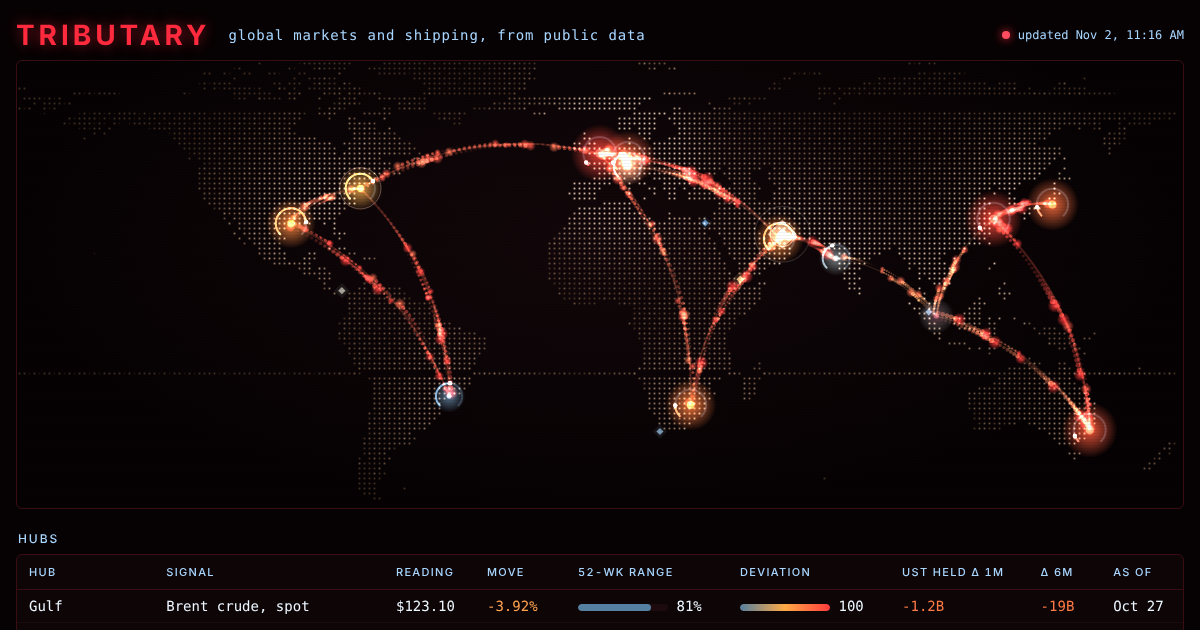
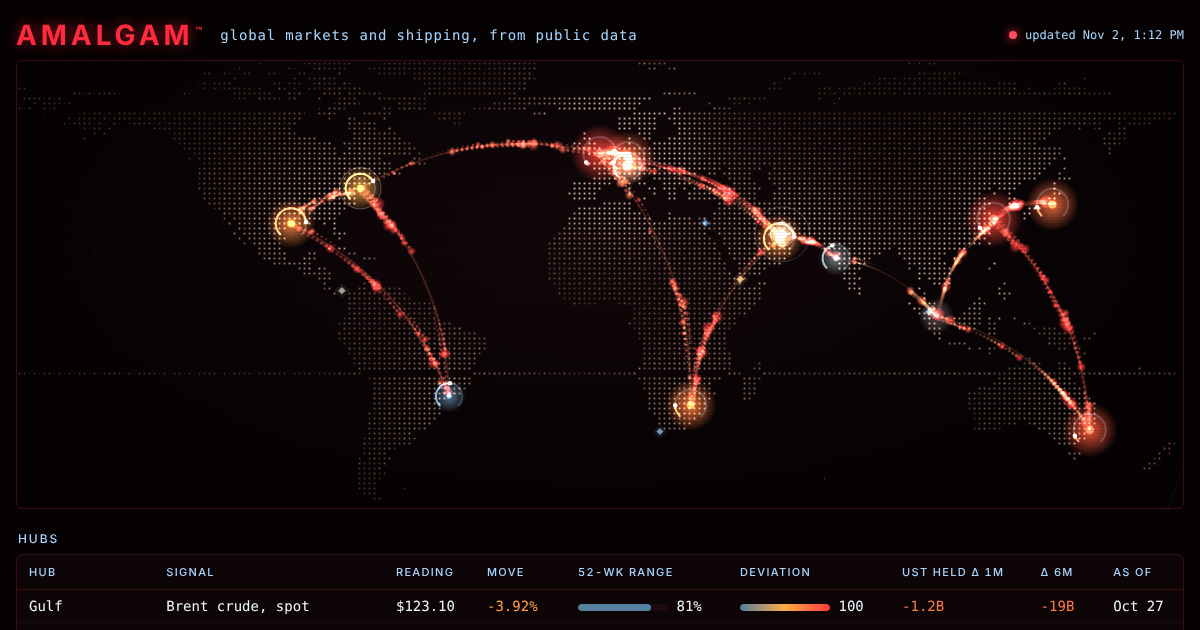
Rename app to Amalgam (TM); new link card
Claude-Session: https://claude.ai/code/session_01GamK88Yt7XzRR66ZptV3qU

diff --git a/index.html b/index.html
@@ -3,11 +3,11 @@
 <head>
 <meta charset="utf-8">
 <meta name="viewport" content="width=device-width, initial-scale=1">
-<title>Tributary</title>
+<title>Amalgam™</title>
 <meta name="description" content="A free open-data HUD of global money flows and shipping chokepoints. Information only; not investment advice.">
 <meta name="theme-color" content="#060203">
 <meta property="og:type" content="website">
-<meta property="og:title" content="Tributary: a live map of global markets and shipping">
+<meta property="og:title" content="Amalgam™: a live map of global markets and shipping">
 <meta property="og:description" content="A free open-data HUD of global money flows and shipping chokepoints. Information only; not investment advice.">
 <meta property="og:url" content="https://bclough581-sketch.github.io/planetary-circulation/">
 <meta property="og:image" content="https://bclough581-sketch.github.io/planetary-circulation/og.png">
@@ -71,7 +71,7 @@ a{color:#cfe8ff}
 </head>
 <body>
 <header>
-  <h1>TRIBUTARY</h1>
+  <h1>AMALGAM<sup style="font-size:.4em;letter-spacing:0;vertical-align:super;margin-left:.15em">™</sup></h1>
   <span class="sub">global markets and shipping, from public data</span>
   <span class="status" role="status"><i class="dot" id="dot"></i><span id="stxt">loading…</span></span>
 </header>
@@ -111,7 +111,7 @@ a{color:#cfe8ff}
 <h2>SOURCES AND LICENSES</h2>
 <div class="src" id="sources"></div>
 <p class="tip-jar" id="tipjar"><a id="tiplink" rel="noopener" target="_blank">Free to use. If it was useful, $1 keeps it running.</a></p>
-<p class="note" id="legal"><b>Disclaimer.</b> Tributary is an information display built from public data sources. It is not investment, financial, legal, or tax advice, and it does not recommend buying or selling any security, currency, or commodity. Data may be delayed, incomplete, or stale, and visualizations are illustrative, not predictive. Past patterns do not indicate future results. You are solely responsible for your own decisions.</p>
+<p class="note" id="legal"><b>Disclaimer.</b> Amalgam™ is an information display built from public data sources. It is not investment, financial, legal, or tax advice, and it does not recommend buying or selling any security, currency, or commodity. Data may be delayed, incomplete, or stale, and visualizations are illustrative, not predictive. Past patterns do not indicate future results. You are solely responsible for your own decisions.</p>
 <script>
 const TIP_URL = '';   // set only after IMF reuse permission is confirmed; empty = no payment link shown
 const HUBDEF = [

diff --git a/sw.js b/sw.js
@@ -1,4 +1,4 @@
-const SHELL='pc-shell-v5', FILES=['./','index.html','land.json','manifest.webmanifest','icon-192.png'];
+const SHELL='pc-shell-v6', FILES=['./','index.html','land.json','manifest.webmanifest','icon-192.png'];
 self.addEventListener('install',e=>{e.waitUntil(caches.open(SHELL).then(c=>c.addAll(FILES)).then(()=>self.skipWaiting()));});
 self.addEventListener('activate',e=>{e.waitUntil(caches.keys().then(ks=>Promise.all(ks.filter(k=>k!==SHELL).map(k=>caches.delete(k)))).then(()=>self.clients.claim()));});
 self.addEventListener('fetch',e=>{

diff --git a/fetch_data.py b/fetch_data.py
@@ -1,5 +1,5 @@
 #!/usr/bin/env python3
-"""Daily data job for Tributary.
+"""Daily data job for Amalgam.
 
 Pulls ONLY sources whose terms allow public display with attribution:
   - ECB euro foreign exchange reference rates   (Source: ECB statistics.)

diff --git a/README.md b/README.md
@@ -1,4 +1,4 @@
-# Tributary (formerly Planetary Circulation)
+# Amalgam (formerly Tributary, Planetary Circulation)
 
 A free, installable, open-data HUD of global money flows and shipping chokepoints. Information only; not investment advice.
 
